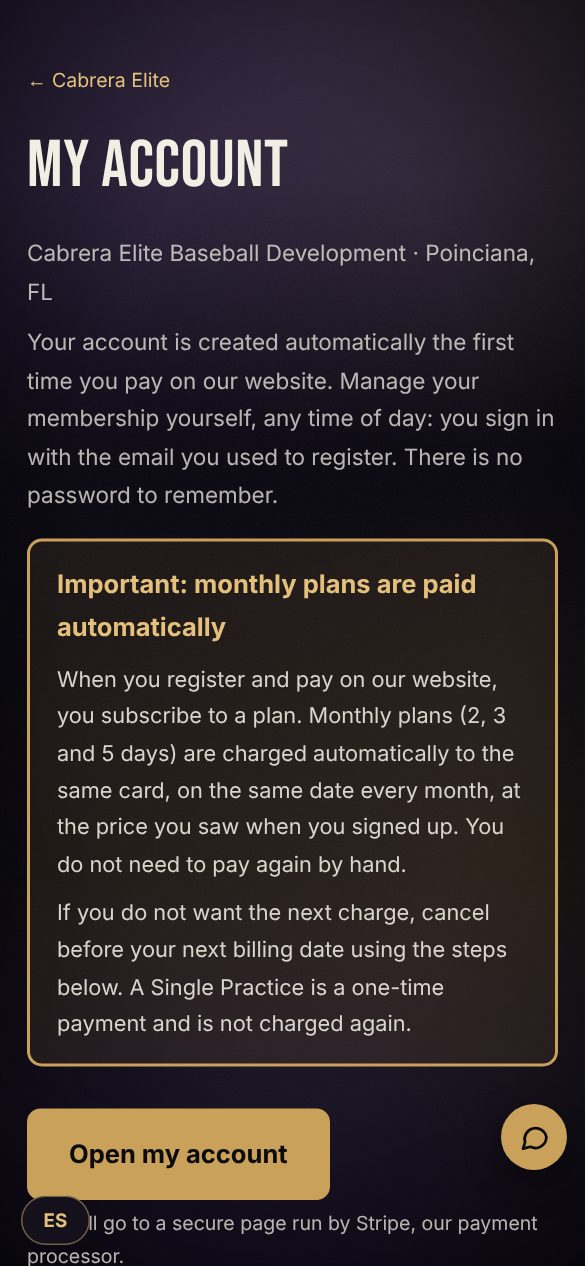
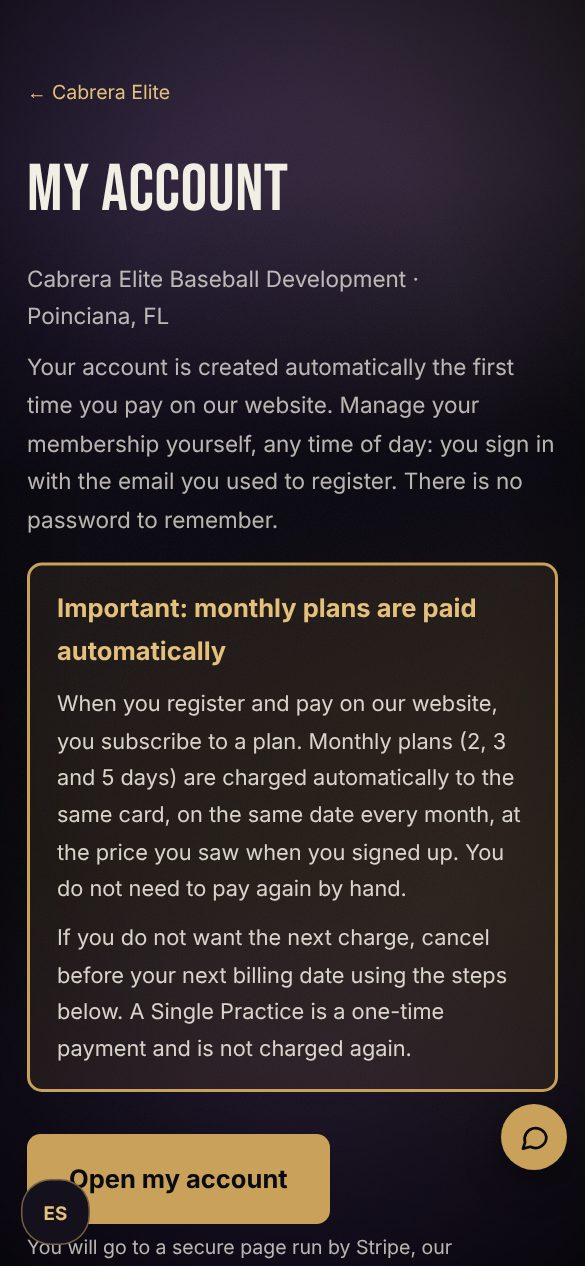
Actualiza README con funciones reales, capturas nuevas y guía para agentes
Claude-Session: https://claude.ai/code/session_01FQtDjsyEUajnABJvnoGpJC

Changed region(s): [[0.0308, 0.0616, 0.9538, 1.0]]

diff --git a/SKILLS-INSTALL.md b/SKILLS-INSTALL.md
@@ -1,0 +1,148 @@
+# SKILLS-INSTALL.md — Skills y herramientas para agentes de código (Codex / Claude Code)
+
+Archivo aparte del `AGENTS.md`. Aquí van **qué instalar, cómo y cuándo usarlo**.
+Estado de verificación: los repos y comandos marcados ✅ fueron revisados clonando el repo y leyendo su README (noviembre 2026). Lo marcado ⚠ no se pudo verificar.
+
+> Un agente en la nube no puede instalar skills en tu computadora. Ejecuta estos comandos tú, en la terminal de tu máquina (requiere Node.js), o pásaselos a Codex para que los corra en tu entorno.
+
+---
+
+## 0. Instrucciones para Codex (ejecutar en este orden)
+
+1. Instala las skills de la sección 1 (CLI `npx skills add ...`) o copia la carpeta `.agents/skills/` del kit a `~/.agents/skills` (Codex) y `~/.claude/skills` (Claude Code).
+2. Verifica: cada carpeta debe tener `SKILL.md`; reinicia el agente y lista las skills.
+3. No ejecutes nada de la sección 4. No pegues claves de API en archivos `.html` de terceros.
+4. No modifiques `AGENTS.md`; este archivo es independiente.
+5. Aplica a un proyecto web estático solo lo que aporte: para Cabrera Elite basta `motion-design` y `design-dna`; GSAP y three.js solo si se añade una experiencia 3D/scroll compleja (hoy `fx.js` ya cubre las animaciones).
+
+**Estado de instalación (2026-11-23, en el entorno de Claude Code en la nube):** copiadas 24 skills a `~/.claude/skills` y `~/.agents/skills` (content-critic, design-dna, motion-design, 8 gsap-*, 12 threejs-*). Verificadas como cargadas. La instalación en tu computadora la hace Codex con estos pasos.
+
+## 1. Instalar (los que sirven)
+
+### Opción rápida: CLI `skills` (funciona con Codex, Claude Code, Cursor y más)
+```bash
+# Animación en scroll, timelines, React
+npx skills add https://github.com/greensock/gsap-skills
+
+# 3D (three.js r186, React Three Fiber)
+npx skills add cloudai-x/threejs-skills
+
+# Lottie / SVG / keyframes
+npx skills add LottieFiles/motion-design-skill
+
+# Extraer "ADN" de diseño desde referencias (tokens, estilo, efectos)
+npx skills add zanwei/design-dna
+
+# Dirección creativa y animación de interfaces (usa la URL, no el repo)
+npx skills add https://genjutsu.athevon.dev -g
+```
+Para instalar solo en un agente: añade `-a codex` o `-a claude-code`, y `-g` para instalación global (ver `npx skills add --help`). Revisa en pantalla qué agentes detecta antes de aceptar.
+
+> **Genjutsu:** su README advierte que `npx skills add AThevon/genjutsu` instala las skills sin sus módulos. Usa la URL de arriba.
+
+### Contenido para redes: Content Critic ✅
+Skill de solo texto (un `SKILL.md`, sin scripts ni permisos de herramientas, MIT) que evalúa guiones, hooks, posts y Reels antes de publicar. Repo nuevo (3 commits, 0 estrellas): lee el `SKILL.md` antes de instalar, como con cualquier skill.
+```bash
+git clone https://github.com/Anghelo12344567/Content-Critic.git
+mkdir -p ~/.agents/skills ~/.claude/skills
+cp -r Content-Critic/content-critic ~/.agents/skills/   # Codex
+cp -r Content-Critic/content-critic ~/.claude/skills/   # Claude Code
+```
+Nota: el README muestra `<tu-usuario>/content-critic` como placeholder; la URL real es la de arriba. En Claude web/escritorio se sube `content-critic.skill` en Configuración → Capacidades → Skills.
+
+### Opción manual (sin CLI)
+Carpetas donde cada agente carga skills:
+
+| Agente | Global | Por proyecto |
+|---|---|---|
+| Codex CLI | `~/.agents/skills/` | `.agents/skills/` |
+| Claude Code | `~/.claude/skills/` | `.claude/skills/` |
+
+```bash
+git clone https://github.com/CloudAI-X/threejs-skills.git
+mkdir -p ~/.agents/skills ~/.claude/skills
+cp -r threejs-skills/skills/* ~/.agents/skills/
+cp -r threejs-skills/skills/* ~/.claude/skills/
+```
+Mismo patrón para `greensock/gsap-skills` y `lottiefiles/motion-design-skill` (la carpeta `skills/` de cada repo).
+
+### Claude Code (plugins)
+```
+/plugin marketplace add greensock/gsap-skills
+/plugin marketplace add AThevon/genjutsu
+/plugin install genjutsu
+```
+
+Después de instalar, **reinicia el agente** y pide una tarea concreta (ej. "anima las tarjetas de precios al hacer hover") o escribe `/genjutsu`.
+
+---
+
+## 2. Qué trae cada skill y cuándo usarla
+
+| Skill | Contenido verificado | Usar cuando |
+|---|---|---|
+| **gsap-skills** (8 skills: core, timeline, scrolltrigger, react, plugins, utils, performance, frameworks) | GSAP oficial. Todos los plugins (SplitText, MorphSVG…) son gratis, incluso uso comercial | Scroll animations, reveals de texto, timelines, React |
+| **threejs-skills** (fundamentals, lighting, materials, shaders, loaders, postprocessing, performance, R3F…) | Apunta a three.js r186 y evita APIs obsoletas | Un hero 3D o partículas puntuales. Siempre con carga diferida y alternativa estática en móvil |
+| **motion-design-skill** | Lottie, SVG animation, keyframes. Para exportar MP4/GIF/dotLottie necesita Creator MCP de LottieFiles | Microinteracciones, iconos animados, estados de botones |
+| **design-dna** | Extrae tokens, estilo y efectos de capturas/URLs a un JSON y genera diseño desde él | Analizar **referencias como inspiración**. No copiar la identidad ni los textos de otra marca |
+| **genjutsu** (`cast`, `paint`, `bunshin`) | `cast` anima una interfaz; `paint` diseña el look completo y crea un `MASTER.md`; `bunshin` construye un sitio entero con un equipo de agentes (declara su costo antes de empezar) | `cast` para mejoras puntuales; `paint`/`bunshin` solo en proyectos nuevos o rediseños aprobados |
+| **content-critic** | Pide plataforma, nicho, objetivo y tamaño de cuenta; evalúa hook, retención, valor, emoción, encaje y CTA (Alto/Medio/Bajo); da hasta 3 reescrituras. No predice viralidad ni da notas 0-100; marca [Seguro]/[Probable]/[Suposición] y responde en español | Revisar Reels, posts y guiones antes de publicar en Instagram, TikTok, LinkedIn o X |
+
+Regla de uso: instala solo las que vayas a usar. Cada skill añade contexto al agente; no hace falta tener las cinco en todos los proyectos.
+
+---
+
+## 3. Herramientas opcionales (repos verificados que existen; instalación según su README)
+- `every-app/open-seo` — auditoría SEO, posiciones y backlinks (alternativa abierta a Semrush/Ahrefs; los datos de SEO se pagan por uso vía API de DataForSEO). Incluye plugin para Claude Code/Codex.
+- `hugohe3/ppt-master` — genera PowerPoint editable desde un tema o documento.
+- Alternativas open source a apps de pago (de los carruseles, sin verificar uno a uno ⚠): AppFlowy (notas), cal.diy (agenda), OpenProject (tareas), OpenWhispr (dictado), Cap (grabación de pantalla), Chatwoot (bandeja de mensajes), OpenSEO. **Revisa la licencia antes de usar en un negocio:** AppFlowy, Cap y VoiceStudio son AGPL-3.0; OpenProject es GPL-3.0; cal.diy está pensado para uso personal.
+
+## 4. No instalar / usar con mucho cuidado
+- **Claude-BugHunter** (`elementalsouls/Claude-BugHunter`): existe, pero es un paquete de seguridad ofensiva (bug bounty / red team). No aporta a un proyecto web normal. Úsalo solo contra sistemas **propios o con autorización escrita** y dentro del alcance de un programa de bug bounty. Revisa `install.sh` antes de ejecutarlo.
+- **Free LLM API** (video "Claude Code gratis"): instala con `curl … | bash`. No ejecutes scripts remotos sin leerlos antes. Además usa modelos gratuitos de otros proveedores, **no el modelo Claude**, con límites y términos propios de cada proveedor. Si lo pruebas, hazlo en un entorno aislado y sin claves de producción.
+- **ai-website-cloner-template** y **Scrapling**: no clonar sitios de terceros; scraping solo de datos públicos respetando términos y robots.txt.
+- **Instagram Agent Skill** (video): ⚠ no pude confirmar el repositorio exacto. Verifica el autor y el código antes de instalar. Mantén la regla "nada se publica sin tu aprobación" y no automatices mensajes masivos a terceros (cumple las normas de Instagram y las leyes antispam).
+- **VoiceStudio** (clonación de voz): clona solo tu propia voz o con consentimiento por escrito.
+
+---
+
+## 5. Ideas rescatadas de los videos y carruseles
+
+**Motion graphics con Claude (flujo):** subir 1–2 videos de referencia (ej. de Pinterest) + un prompt con **historia, duración y resolución** (ej. 15 s, formato vertical) y pedir al final que genere una timeline editable. Un "skill file" de motion graphics se sube al proyecto de Claude como contexto.
+
+**10 estilos de animación para prompts:** Glow Sketch, Comic Art, Lego Style, Pixel Art, Chalkboard Style, PS2 Style, Flat Vector, Minimal Line, CGI Motion, Explainer 3D. (Usa estilos genéricos; no pidas personajes ni marcas registradas.)
+
+**Pack de 15 microinteracciones UI** (solo se vieron los nombres, los prompts no están publicados ⚠): Word swap, Live order feed, Ghost cursor, Number roll, Logo marquee, Path draw, AI chat reply, Review deck, Glow-up slider, Spotlight cards, Bento snap, Price flip, Win table, Blur-in hero, Confetti click. Sirven como catálogo de patrones para pedirle a GSAP/Genjutsu.
+
+**Stack para lanzar apps con IA (del primer video):** GitHub (control de versiones) → Claude (desarrollo) → Stripe (cobros) → PostHog (analítica) → Vercel (publicación). Reglas de seguridad de Stripe y de producción: ver `AGENTS.md`.
+
+---
+
+## 6. Verificación tras instalar
+1. Reinicia el agente y pregunta: "¿qué skills tienes disponibles?".
+2. Prueba una tarea pequeña con cada una (ej. un reveal con GSAP en una sección).
+3. Revisa que no se agregaron archivos ni dependencias inesperadas (`git status`, `git diff`).
+4. Mide rendimiento (Lighthouse) y respeta `prefers-reduced-motion` antes de publicar.
+
+## 7. Revisado el 2026-11-23 (carrusel «stack» y alternativas open source)
+
+Los repos existen (comprobado con `git ls-remote`); licencia y estrellas son lo que dicen los carruseles y no se pudieron confirmar desde aquí.
+
+| Herramienta | Qué es | Veredicto para Cabrera |
+|---|---|---|
+| Resend | Correo transaccional por API | Útil si se reemplaza el envío por Gmail/Apps Script; requiere clave (solo en variables de entorno) |
+| Stripe | Ya en uso | — |
+| Excalidraw | Pizarra para diagramas | Útil para esquemas de arquitectura |
+| Remotion | Videos con código (React) | Opcional, para reels del teaser |
+| GitHub | Control de versiones | Ya en uso |
+| Chatwoot (`chatwoot/chatwoot`) | Bandeja unificada de chat/mail/WhatsApp, autoalojada | Posible reemplazo futuro del chat; exige servidor propio y datos de menores: decidir con el dueño |
+| cal.diy (`calcom/cal.diy`) | Agenda de reuniones autoalojada (uso personal) | Alternativa a Cal.com/Calendly para `bookingUrl` |
+| OpenProject, AppFlowy | Gestión de tareas / notas | Fuera de alcance del sitio |
+| OpenWhispr, Cap | Dictado local, grabación de pantalla | Herramientas personales, no del repo |
+| OpenSEO (`every-app/open-seo`) | SEO con API de DataForSEO (de pago por uso) | Útil para seguimiento de posiciones locales; costo por uso |
+| Apify, Ritmora, Telegram, Mercado Pago | Scraping, contenido, avisos, pagos en Argentina | No aplican (Mercado Pago no es para EE. UU.); scraping: cuidado con términos de uso |
+
+**Videos:**
+- *GODMODE* (`elder-plinius/GODMODE3`): un `index.html` que reúne 50+ modelos. NO instalar: pide claves de API en una página de un tercero y el autor es conocido por jailbreaks.
+- *Higgsfield × Claude*: conector MCP de video con prueba gratis, promocional (pide comentar para recibir el enlace). Opcional; se agrega desde Configuración → Conectores; no hace falta para el sitio.
+- *«Motion Graphics Skill File»* (getuninside.com): archivo promocional detrás de «comenta SKILL»; no verificable. Ya existe `motion-design` verificada.

diff --git a/AGENTS.md b/AGENTS.md
@@ -1,0 +1,94 @@
+# AGENTS.md — Guía general para agentes de código (Codex y similares)
+
+Archivo reutilizable para cualquier proyecto web o de software. Cópialo a la raíz del repo y añade abajo, en la sección 12, los datos específicos del proyecto.
+
+Idioma: comunícate con el usuario en **español**. El contenido público del producto va en el idioma de su mercado objetivo.
+
+## 1. Rol esperado
+Actúa como un equipo integrado: arquitecto, full-stack senior, director creativo, UI/UX, motion designer, SEO/CRO, seguridad y QA. No solo escribas código: investiga, diseña, implementa, prueba, documenta y optimiza. Prioriza resultados que funcionen, se vean profesionales y sean mantenibles.
+
+## 2. Protocolo de trabajo (obligatorio)
+1. **Investigación:** inspecciona el repo (framework, estructura, dependencias, APIs, BD, auth, pagos). No asumas tecnologías.
+2. **Diagnóstico:** problemas, riesgos y oportunidades.
+3. **Plan:** qué cambias, cómo y por qué.
+4. **Implementación:** cambios pequeños y coherentes con la arquitectura existente. No reemplaces sistemas que funcionan por preferencia personal.
+5. **Validación:** build, lint, tests y revisión responsive. Una tarea no está terminada si no funciona.
+6. **Optimización:** rendimiento, accesibilidad, mantenibilidad.
+7. **Reporte final:** objetivo, diagnóstico, cambios, archivos modificados, pruebas, pendientes y siguientes pasos. Distingue **implementado / probado / pendiente**.
+
+## 3. Pide autorización ANTES de
+- Eliminar funcionalidades o datos.
+- Cambiar tecnologías principales.
+- Tocar bases de datos de producción.
+- Alterar precios, condiciones comerciales o textos legales.
+- Modificar sistemas de pago, credenciales o permisos.
+- Publicar a producción o ejecutar operaciones irreversibles.
+
+Trabaja siempre en ramas, con commits atómicos y una estrategia de rollback. No sobrescribas trabajo existente sin analizarlo.
+
+## 4. Código y arquitectura
+- Componentes reutilizables, separación de responsabilidades, tipado estricto cuando el stack lo permita.
+- Manejo de errores explícito; sin código duplicado ni dependencias innecesarias.
+- Sin soluciones temporales que se conviertan en deuda técnica.
+- Evita complejidad por moda: cada librería nueva debe justificar su peso.
+
+## 5. Diseño y UX
+- Mobile-first, responsive impecable, jerarquía visual clara, tipografía y espaciado consistentes.
+- Evita diseños de plantilla genérica, gradientes sin propósito, efectos exagerados e interfaces saturadas.
+- Cada sección debe tener una razón visual **y** de negocio.
+- Accesibilidad mínima WCAG AA: contraste, foco visible, navegación por teclado, alt text.
+- Imágenes: formatos modernos (WebP/AVIF), lazy loading, dimensiones explícitas. Nunca inventes ni alteres fotos, rostros o logos de personas reales.
+
+## 6. Skills y librerías de animación (opcionales)
+Úsalas solo cuando aporten valor. Verifica cada repo en su README antes de instalar.
+
+| Skill | Repo | Uso |
+|---|---|---|
+| Three.js | `CloudAI-X/threejs-skills` | Escenas 3D, partículas, cámara, luces, modelos GLTF. Carga diferida y fallback en móvil. |
+| GSAP | `greensock/gsap-skills` | ScrollTrigger, reveals de texto, timelines, integración React. |
+| Design DNA | `zanwei/design-dna` | Analizar tipografía, layout y paleta de referencias **como inspiración**, sin copiar la identidad de otras marcas. |
+| Motion Design | `lottiefiles/motion-design-skill` | Lottie/SVG, estados interactivos, keyframes. |
+| Genjutsu | `AThevon/genjutsu` | Dirección creativa y pulido visual. |
+
+Reglas de motion:
+- Respeta siempre `prefers-reduced-motion`.
+- No degradar Core Web Vitals (LCP, CLS, INP); si una animación cuesta rendimiento, se simplifica.
+- Anima `transform` y `opacity`; evita provocar relayout.
+- Cada animación debe tener una intención (guiar, confirmar, dar contexto).
+
+## 7. Plataformas habituales
+- **GitHub:** ramas por feature, PRs pequeños, nunca subir secretos.
+- **Vercel (u otro hosting):** previews para revisar; producción solo con aprobación. Secretos en variables de entorno.
+- **Stripe:** claves secretas solo en servidor. Verifica checkout, webhooks, estado de pago/suscripción, fallos, cancelaciones y portal del cliente. No declares un pago exitoso por la respuesta visual del navegador; confirma por webhook.
+- **PostHog / GA4:** medir el embudo principal. No capturar datos personales sensibles en eventos; excluir formularios sensibles de grabaciones de sesión.
+
+## 8. Herramientas open source complementarias (uso condicionado)
+- `every-app/open-seo` — auditoría SEO y keywords.
+- `dgtlmoon/changedetection.io` — monitoreo de cambios en páginas públicas.
+- `trycompai/crm` — CRM open source a evaluar.
+- `hugohe3/ppt-master` — informes en PowerPoint.
+- `D4Vinci/Scrapling` — extracción de datos públicos; respetar términos de cada sitio y robots.txt; nunca para datos personales.
+- `PaddleOCR` — OCR de documentos; no usar con datos sensibles o de menores sin diseño de privacidad aprobado.
+- `JCodesMore/ai-website-cloner-template` — **no clonar sitios de terceros** (copyright y marca); solo para analizar la estructura del propio sitio.
+
+## 9. Seguridad y privacidad
+- Privacidad desde el diseño: recolecta el mínimo necesario.
+- Validación en servidor, control de roles y permisos, sesiones seguras, protección anti-abuso (rate limiting, honeypot/CAPTCHA).
+- Secretos solo en variables de entorno; nunca en frontend ni en el repo.
+- Nunca publiques información privada de usuarios. Si el proyecto maneja datos de menores o datos sensibles, aplica cuidado adicional y pide revisión antes de cambiar consentimientos o políticas.
+
+## 10. SEO y rendimiento
+- Title, meta description, headings, enlaces internos, alt text, datos estructurados, canonical, sitemap, robots.txt, SEO local si aplica.
+- Sin keyword stuffing ni contenido duplicado.
+- Lazy loading, code splitting, fuentes optimizadas, bajo CLS. Meta: Lighthouse ≥ 90 en móvil.
+
+## 11. Checklist de calidad antes de entregar
+¿Funciona de verdad? ¿Se ve profesional? ¿Es responsive? ¿Accesible? ¿Segura? ¿Rápida? ¿Mantenible? ¿Mejora la UX? ¿Aporta valor al negocio? ¿Está integrada con el resto del proyecto?
+
+## 12. Contexto del proyecto (rellenar por proyecto)
+- **Nombre y URL:**
+- **Objetivo del negocio:**
+- **Audiencia:**
+- **Tono de marca:**
+- **Stack detectado:**
+- **Reglas o restricciones propias (legales, precios, datos sensibles):**

diff --git a/README.md b/README.md
@@ -19,6 +19,7 @@
 ## Contenido
 
 - [Vista previa](#vista-previa)
+- [Qué hace el sitio](#qué-hace-el-sitio)
 - [Tecnologías](#tecnologías)
 - [Cómo funciona](#cómo-funciona)
 - [1. Google Apps Script](#1-google-apps-script-codegs)
@@ -29,11 +30,34 @@
 
 ## Vista previa
 
-| Celular | Registro (paso 1 de 3) | Mi cuenta |
+| Celular (EN) | Celular (ES) | Mi cuenta |
 |:---:|:---:|:---:|
-| <img src="docs/img/home-mobile.jpg" alt="Portada en celular" width="200"> | <img src="docs/img/register-desktop.jpg" alt="Formulario de registro de atleta" width="360"> | <img src="docs/img/account-mobile.jpg" alt="Página Mi cuenta" width="200"> |
+| <img src="docs/img/home-mobile.jpg" alt="Portada en celular, inglés" width="200"> | <img src="docs/img/home-mobile-es.jpg" alt="Portada en celular, español" width="200"> | <img src="docs/img/account-mobile.jpg" alt="Página Mi cuenta" width="200"> |
+
+| Planes y selector «¿Qué plan me conviene?» | Registro (paso 1 de 3) |
+|:---:|:---:|
+| <img src="docs/img/plans-desktop.jpg" alt="Sección de planes con selector" width="430"> | <img src="docs/img/register-desktop.jpg" alt="Formulario de registro de atleta" width="430"> |
 
 > Las capturas muestran solo la interfaz; no incluyen fotos de atletas ni datos de familias.
+
+## Qué hace el sitio
+
+| Función | Cómo funciona | Archivos |
+|---|---|---|
+| **Portada orientada a conversión** | Un botón principal («Book Your Free Evaluation») y dos enlaces secundarios (registro y planes); barra de promoción y barra de confianza. | `index.html` |
+| **Evaluación gratis con waiver** | Formulario con firma, verificación anti-bot (Turnstile) y envío a Google Sheets; lo que falla la verificación queda en la hoja «Cuarentena». | `index.html`, `antibot.js`, `Code.gs` |
+| **Registro en 3 pasos** | Atleta → plan → pago en Stripe con referencia `CE-…` para conciliar el pago. | `register.html` |
+| **Selector de plan** | Botones por frecuencia semanal que señalan el plan correcto y abren el registro con ese plan preseleccionado. No cobra ni guarda datos. | `plan-finder.js` |
+| **Mi cuenta / portal del cliente** | Guía paso a paso y acceso al portal de Stripe (tarjeta, facturas, cancelación al final del mes pagado). El globo flotante lleva a esta página. | `account.html`, `account-bubble.js` |
+| **Chat con IA** | Worker de Cloudflare con Workers AI, límite por visitante y verificación Turnstile; si se agota la cuota muestra teléfono y correo. | `chat.js`, `chat-worker/` |
+| **Español e inglés** | Diccionario en `lang.js`; `tools/build_site.py` genera `es/` y el sitemap con `hreflang`. | `lang.js`, `tools/build_site.py` |
+| **Contenido opcional** | Video con avance, horario, reservas, tienda, testimonios y galería aparecen solo si se llenan en `site-config.js`. | `site-config.js`, `extras.js` |
+| **Animación sutil** | Revelado al desplazarse, contadores y paralaje; respeta `prefers-reduced-motion`. | `fx.js`, `bg.css` |
+| **Privacidad y cookies** | Google Analytics solo se carga tras aceptar cookies. Sentry sin datos personales. | `cookies.js`, `track.js`, `sentry-init.js` |
+| **SEO y descubrimiento** | `sitemap.xml`, `robots.txt`, JSON-LD, `llms.txt`, Open Graph y PWA manifest. | `sitemap.xml`, `llms.txt`, `manifest.webmanifest` |
+| **Seguridad** | CSP en cada página, cabeceras en Cloudflare (ver `docs/CABECERAS_CLOUDFLARE.md`), `tools/check_headers.sh` para comprobarlas. | `docs/`, `tools/` |
+
+> Los precios, el waiver y los textos legales están definidos por el negocio; este README los documenta, no los define.
 
 ## Tecnologías
 
@@ -85,6 +109,9 @@ Make  ◄── eventos de Stripe             • "Pagos sin registro": pagos qu
 | `tools/build_site.py` | Genera las páginas en español (`es/`), el sitemap y los bloques de seguridad |
 | `sentry-init.js` | Reporta errores del sitio a Sentry (sin datos personales) |
 | `site-config.js` | Único archivo que se edita para video, horario, reservas, tienda, testimonios, etc. |
+| `plan-finder.js`, `fx.js`, `extras.js`, `chat.js`, `cookies.js`, `track.js`, `antibot.js`, `account-bubble.js` | Scripts de interfaz y servicios (ver «Qué hace el sitio») |
+| `chat-worker/` | Worker de Cloudflare del chat (`LEEME.md` explica cómo moverlo o actualizarlo) |
+| `docs/` | Cabeceras de seguridad de Cloudflare y capturas de este README |
 | `Code.gs` | **No se sube a GitHub.** Se pega en Google Apps Script (ver abajo) |
 
 ## 1. Google Apps Script (`Code.gs`)
@@ -176,3 +203,17 @@ Cada evento envía un correo de aviso al correo del negocio configurado en el sc
 ## 5. Revisión final antes de cobrar (verificado en Stripe el 2026-10-10)
 - Payment Links en vivo con precios correctos ($50 / $280 / $400 / $600), redirección `register.html?pago=ok&plan=...` correcta e impuestos automáticos activos.
 - Portal del cliente activo: cancelación al final del período y enlace igual al de `lang.js`. "Cambiar de plan" está desactivado, así que la ruta *plan_changed* de Make NO es necesaria.
+
+## 6. Desarrollo local y comprobaciones
+
+```bash
+python3 -m http.server 8765        # servir el sitio en http://localhost:8765
+python3 tools/build_site.py        # regenerar es/ y sitemap.xml tras cambiar HTML o lang.js
+bash tools/check_headers.sh        # revisar cabeceras de seguridad en producción
+```
+
+Antes de subir cambios: probar en celular (≈390 px) y escritorio, en EN y ES, con y sin cookies aceptadas, y confirmar que los pagos se verifican en Stripe (no solo en la pantalla del navegador).
+
+## 7. Herramientas de agentes (opcional)
+
+Para trabajar este repo con Claude Code o Codex hay una guía reutilizable en `AGENTS.md` y un instalador de skills de animación y diseño en `SKILLS-INSTALL.md`. El sitio actual no depende de GSAP ni three.js: `fx.js` cubre las animaciones sin dependencias.
